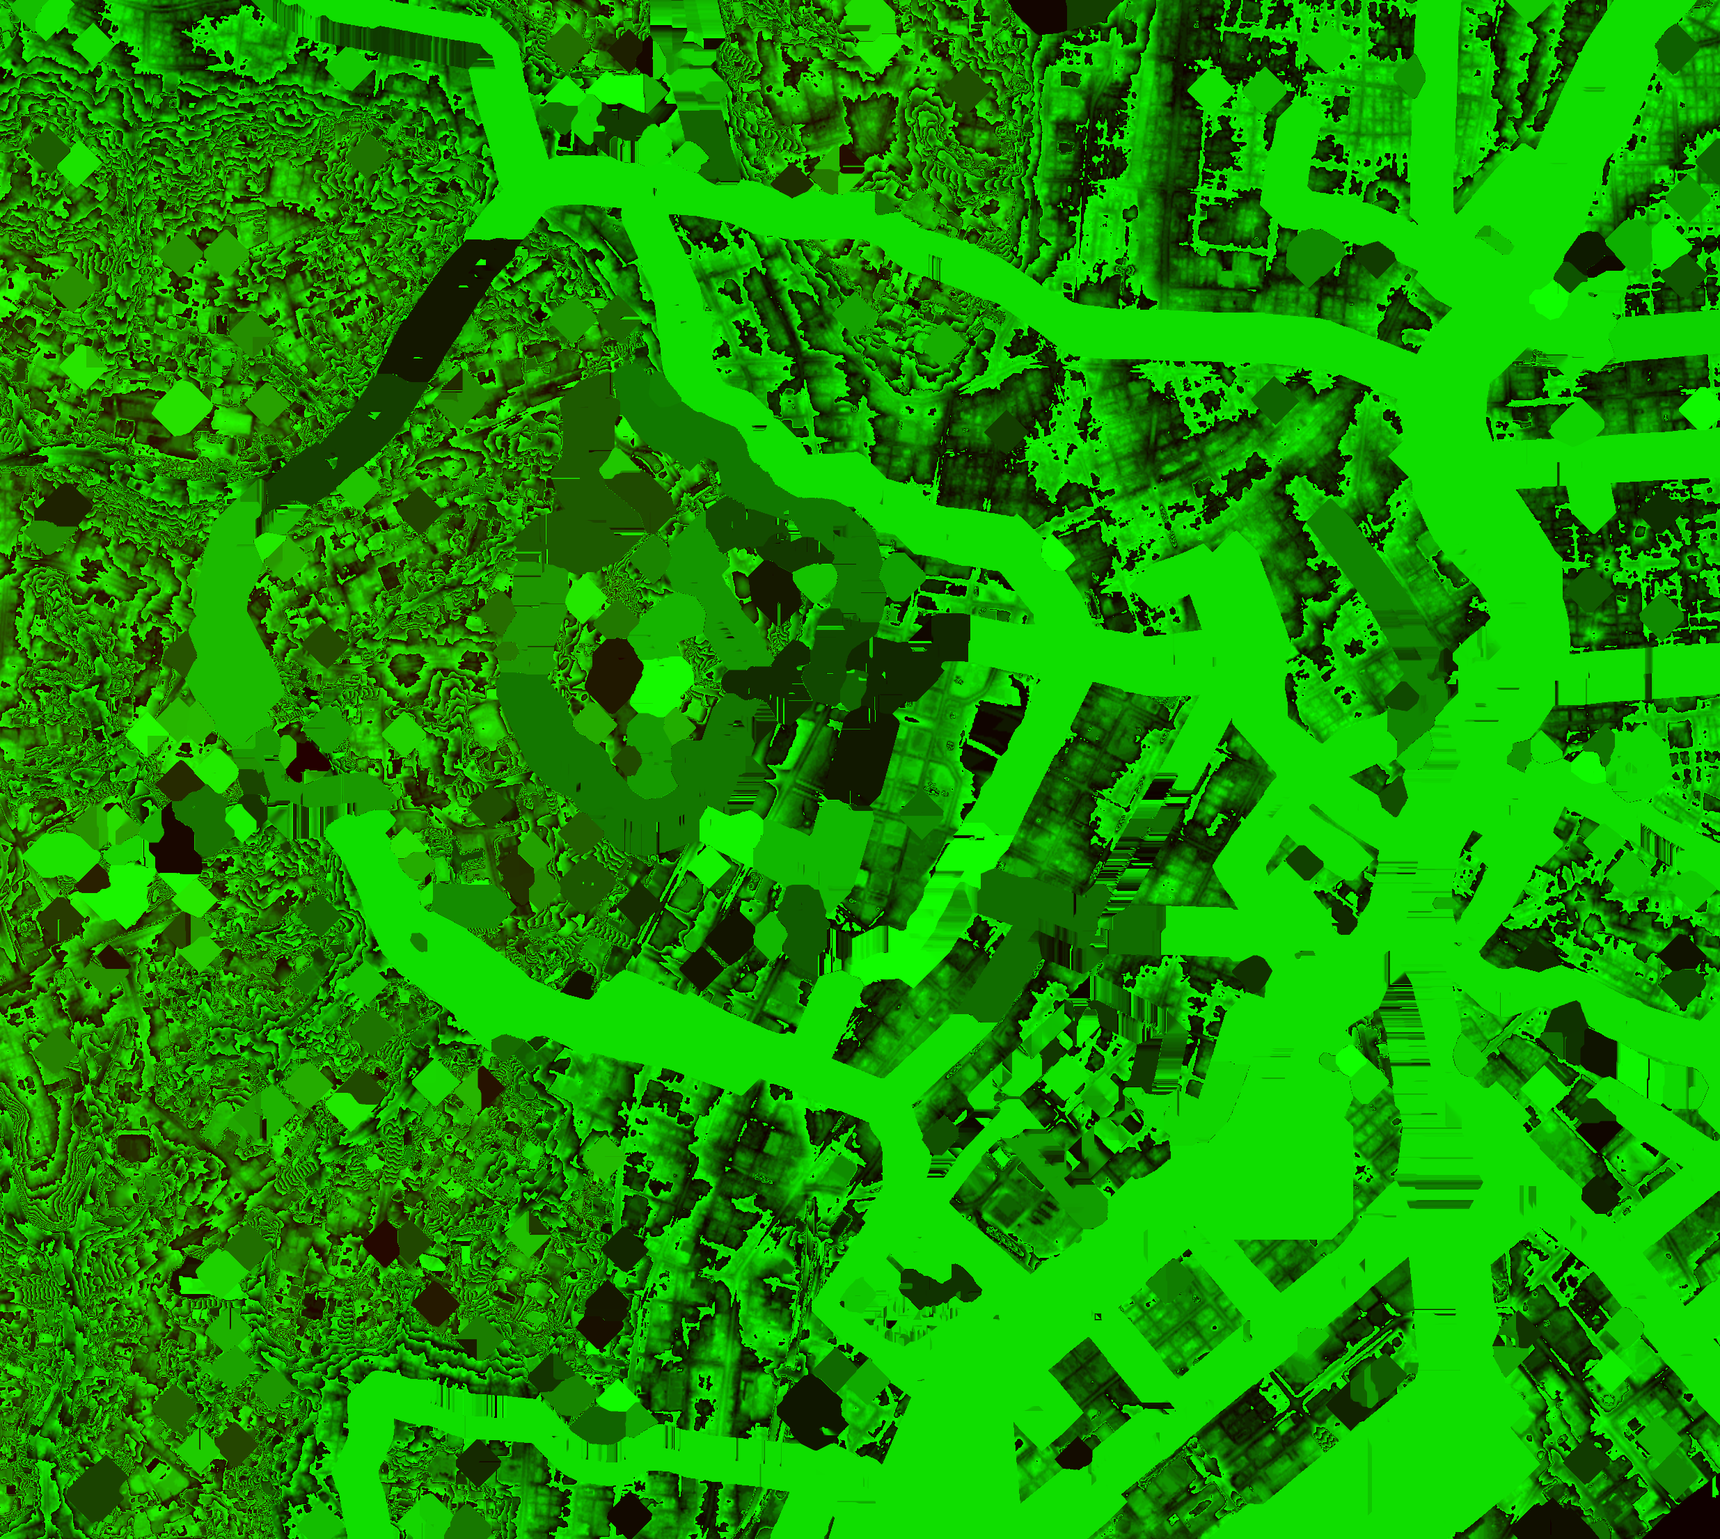
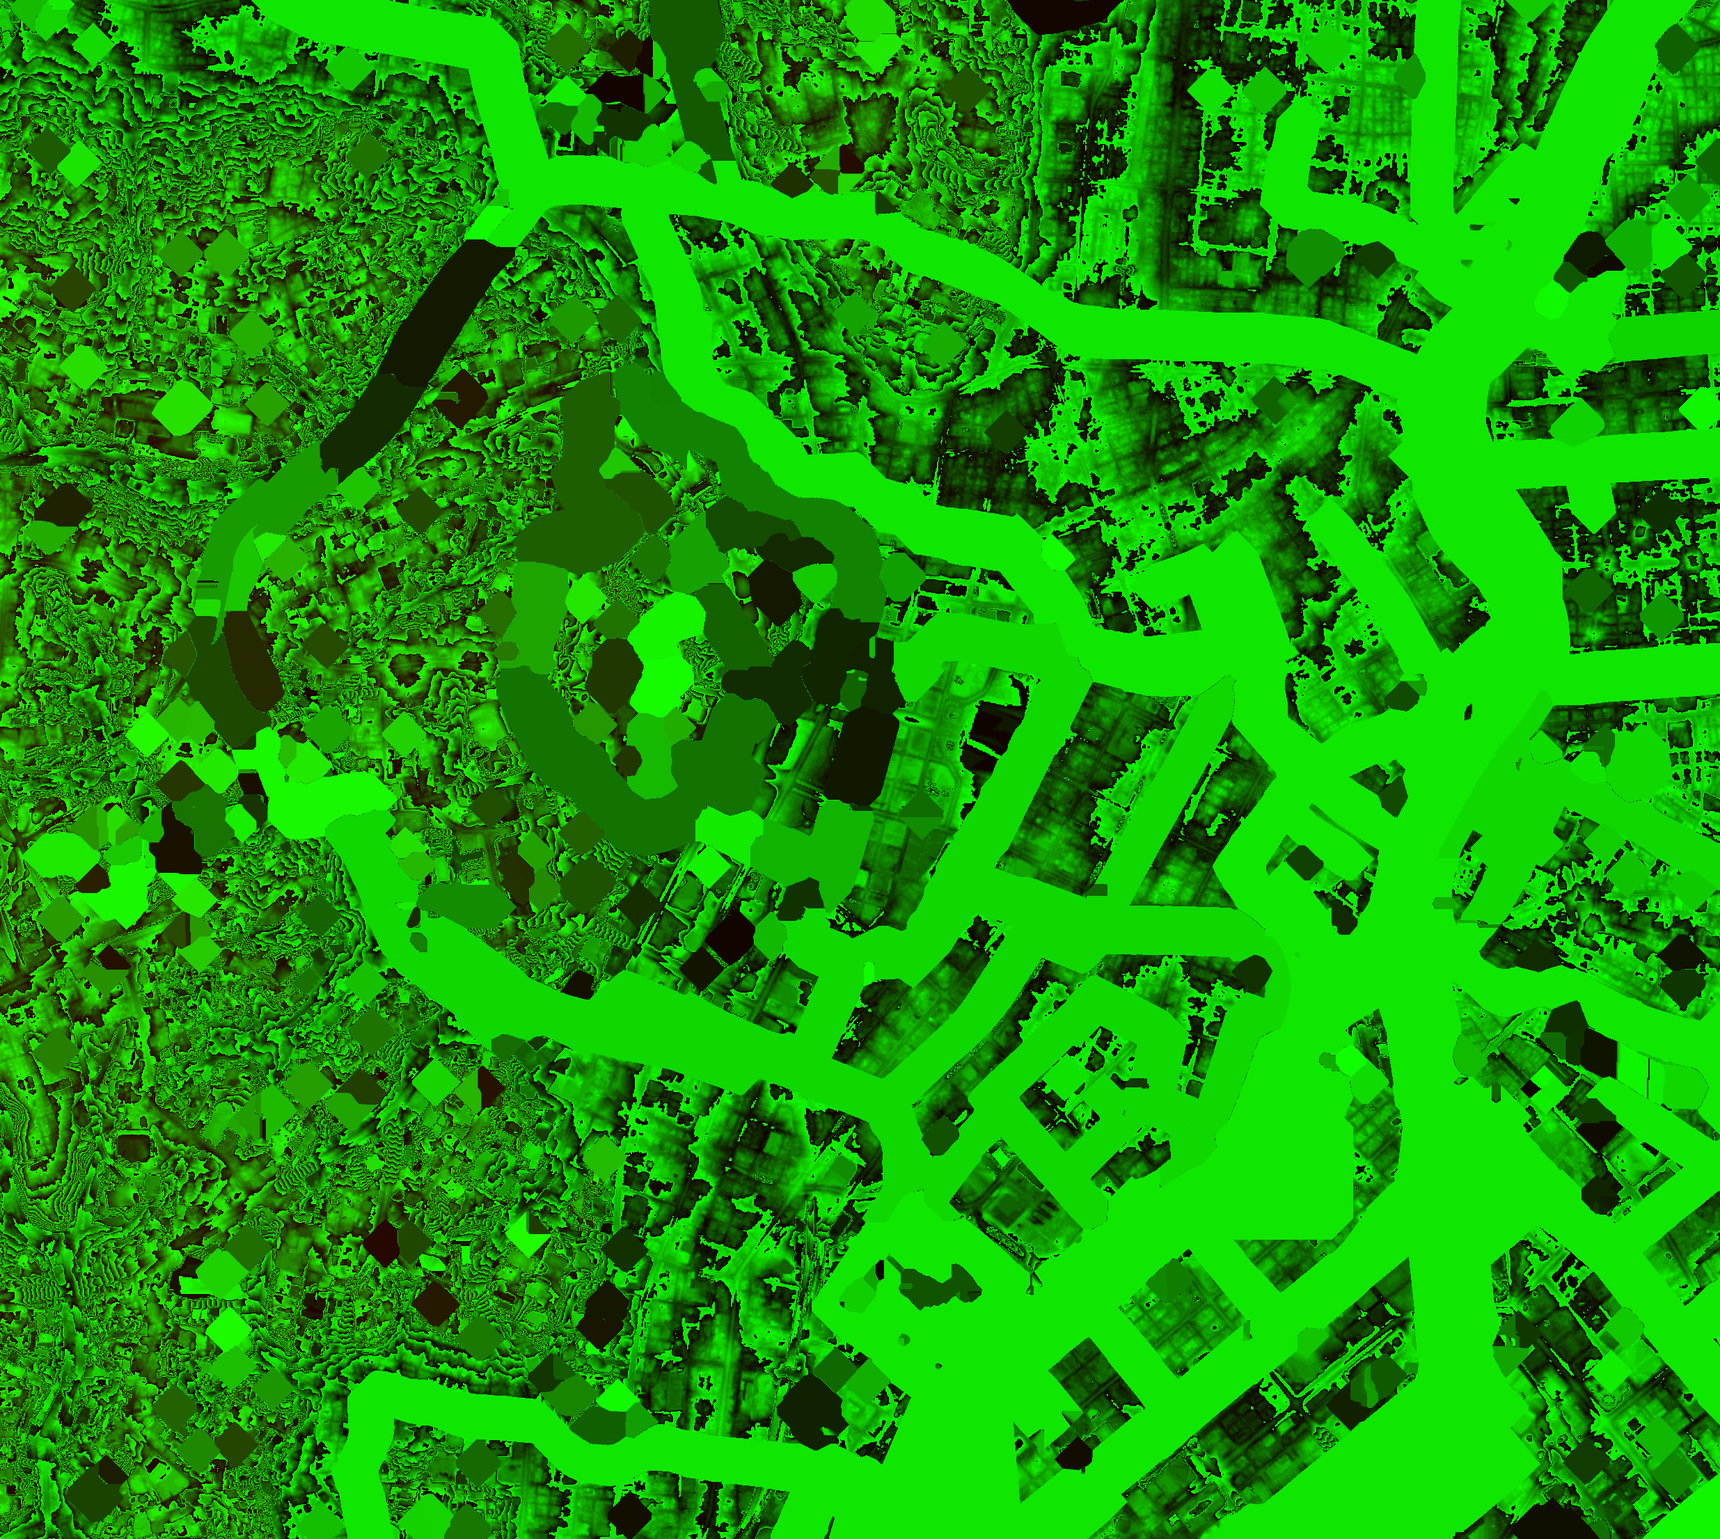
道・線路を地面のメッシュの高さに乗せて上に描く (途切れないように)、岸の線をなめらかに、戻した堀の水面を水平に (芝口など)、行き止まりの堀を隅田川へつなぐ、ワープの渦を岸から離れた所に置き、出口は水の続く向きへ、ミニマップのワープを赤い点と線に
Claude-Session: https://claude.ai/code/session_01UXdYbnpU5x9gYZ3cBC1Uhw

diff --git a/js/tokyo.js b/js/tokyo.js
@@ -9,7 +9,9 @@ import { SHUTOKO } from './shutoko-data.js';
 import { RAIL } from './rail-data.js';
 import { addTokyoTower, addDiet, addTechGym, addTokyoDome, addBudokan, addSkytree, addFuji, addDistant } from './tokyo/landmarks.js';
 import { addOchanomizu, addTokyoStation, addAkasaka, addRailways, addAkibaSigns, addNewOtani, addYotsuyaKudan, addGinzaNihonbashi, addUeno, addSensoji, addAsahi, addUenoAsakusa } from './tokyo/landmarks2.js';
-import { W, codeAt, isWater, LEVEL_H, terrainH, waterY, nearWaterGrid } from './world.js';
+import { W, codeAt, isWater, LEVEL_H, waterY, nearWaterGrid, groundMeshH } from './world.js';
+// 地面の上に置くもの (線路・道・橋のたもと・ビル) は、描いている地面のメッシュ (16m 格子) と同じ高さに合わせる (細かい標高だとメッシュに潜って途切れて見える)
+const terrainH = groundMeshH;
 import { mergeStatic } from './merge.js';
 
 // 窓のテクスチャ (ターザン大東京と同じ。8×8 の窓が 1 枚。lit = 夜に明かりがつく窓)
@@ -103,6 +105,8 @@ function buildRail(root, city, OX, OZ) {
         r.y[i] = sy / sw;
       }
     }
+    // ならしたあとも、陸の所では地面より下に潜らない (お茶の水の崖ぞいの中央・総武線が途切れて見えないように)
+    for (let i = 0; i < n; i++) if (!isWater(r.x[i] + OX, r.z[i] + OZ)) r.y[i] = Math.max(r.y[i], gy(r.x[i], r.z[i]) + r.h[i] + 0.2);
   }
   const brk = { p: [], n: [], uv: [] };
   // レンガ高架の区間 (緯度経度の範囲と路線)
@@ -210,7 +214,8 @@ function buildRail(root, city, OX, OZ) {
   g.setAttribute('normal', new THREE.Float32BufferAttribute(deck.n, 3));
   g.setAttribute('color', new THREE.Float32BufferAttribute(deck.c, 3));
   g.computeBoundingSphere();
-  const mesh = new THREE.Mesh(g, new THREE.MeshLambertMaterial({ vertexColors: true, side: THREE.DoubleSide }));
+  // 地形の上にかぶせて描く (地面と重なっても線路が上に見えるように)
+  const mesh = new THREE.Mesh(g, new THREE.MeshLambertMaterial({ vertexColors: true, side: THREE.DoubleSide, polygonOffset: true, polygonOffsetFactor: -2, polygonOffsetUnits: -4 }));
   mesh.frustumCulled = false; root.add(mesh);
   if (brk.p.length) {
     const c = document.createElement('canvas'); c.width = 256; c.height = 192;
@@ -490,7 +495,7 @@ export function buildTokyo(scene, renderer, bankSegs = []) {
       let a = i, b = i; while (a > 0 && !r.g[a] && r.h[a] < 3) a--; while (b < r.h.length - 1 && !r.g[b] && r.h[b] < 3) b++;
       r.h[i] = Math.max(r.h[a], r.h[b], 3);
     }
-    for (let i = 0; i < r.h.length; i++) r.h[i] = r.g[i] ? terrainH(r.x[i] + OX, r.z[i] + OZ) + 0.08 : r.h[i] + Ts(r.x[i], r.z[i]);
+    for (let i = 0; i < r.h.length; i++) r.h[i] = r.g[i] ? terrainH(r.x[i] + OX, r.z[i] + OZ) + 0.25 : r.h[i] + Ts(r.x[i], r.z[i]);
   }  // 高架の端が宙に浮いたまま切れている所: 両端とも浮いたつなぎは消し、片端だけの所は端の 60m を地面まで下ろす
   {
     const gh = (x, z) => (isWater(x + OX, z + OZ) ? waterY(x + OX, z + OZ) : terrainH(x + OX, z + OZ));
@@ -781,7 +786,7 @@ export function buildTokyo(scene, renderer, bankSegs = []) {
         const [x1, z1] = pts[q], [x2, z2] = pts[q + 1];
         if (isWater(x1, z1) || isWater(x2, z2) || isCastle(x1, z1) || !nearWaterGrid(x1, z1, 250)) continue;
         const L = Math.hypot(x2 - x1, z2 - z1) || 1, ux = (x2 - x1) / L, uz = (z2 - z1) / L, vx = -uz, vz = ux;
-        const h1 = terrainH(x1, z1) + 0.12, h2 = terrainH(x2, z2) + 0.12, hw = wdt / 2, iw = hw - walk;
+        const h1 = terrainH(x1, z1) + 0.25, h2 = terrainH(x2, z2) + 0.25, hw = wdt / 2, iw = hw - walk;
         const e1 = 0.3, ex = ux * e1, ez = uz * e1;
         const S = (x, z, t, h) => [x + vx * t, h, z + vz * t];
         quad(S(x1 - ex, z1 - ez, -iw, h1), S(x1 - ex, z1 - ez, iw, h1), S(x2 + ex, z2 + ez, iw, h2), S(x2 + ex, z2 + ez, -iw, h2), [0, 1, 0], ASP);
@@ -801,7 +806,7 @@ export function buildTokyo(scene, renderer, bankSegs = []) {
     g.setAttribute('normal', new THREE.Float32BufferAttribute(N, 3));
     g.setAttribute('color', new THREE.Float32BufferAttribute(C, 3));
     g.computeBoundingSphere();
-    const bm = new THREE.MeshLambertMaterial({ vertexColors: true, polygonOffset: true, polygonOffsetFactor: -1, polygonOffsetUnits: -2 });
+    const bm = new THREE.MeshLambertMaterial({ vertexColors: true, polygonOffset: true, polygonOffsetFactor: -2, polygonOffsetUnits: -4 });
     const mesh = new THREE.Mesh(g, bm); mesh.frustumCulled = false;
     scene.add(mesh);
     console.log('modern bridges', nb, 'road segs', nroad, 'tris', P.length / 9);

diff --git a/js/main.js b/js/main.js
@@ -1066,10 +1066,19 @@ function updateBoat(dt) {
     for (const [e, o] of [[w.a, w.b], [w.b, w.a]]) {
       const d = Math.hypot(o.x - e.x, o.z - e.z) || 1, ux = (o.x - e.x) / d, uz = (o.z - e.z) / d;
       // 渦に向かって進んでいるときだけワープ (出たあとすぐ戻ってしまわないように)
-      if (Math.hypot(P.x - e.x, P.z - e.z) < 7.5 && Math.cos(P.h) * ux + Math.sin(P.h) * uz > 0.2 && P.v > 1) {
-        P.x = o.x; P.z = o.z;
-        for (let s = 24; s > 0; s -= 2) if (isWater(o.x + ux * s, o.z + uz * s)) { P.x = o.x + ux * s; P.z = o.z + uz * s; break; }
-        P.h = Math.atan2(uz, ux);
+      // 渦に向かって進んでいるとき (または向こうの渦の方へ向いているとき) にワープ。出たあとは渦から離れる向きなので戻らない
+      const ex = e.x - P.x, ez = e.z - P.z, ed = Math.hypot(ex, ez) || 1;
+      if (ed < 7.5 && P.v > 1 && (Math.cos(P.h) * ex / ed + Math.sin(P.h) * ez / ed > 0.3 || ed < 2.5 || Math.cos(P.h) * ux + Math.sin(P.h) * uz > 0.2)) {
+        // 出口: 向こうの渦から、水が一番長く続く向き (来た向きに近い方を少し優先) に向けて出す
+        let bestA = Math.atan2(uz, ux), bestS = -1;
+        for (let k = 0; k < 24; k++) {
+          const a = k / 24 * Math.PI * 2, cx = Math.cos(a), cz = Math.sin(a);
+          let run = 0; while (run < 150 && isWater(o.x + cx * (run + 3), o.z + cz * (run + 3))) run += 3;
+          const sc = run * (1 + 0.3 * (cx * ux + cz * uz));
+          if (sc > bestS) { bestS = sc; bestA = a; }
+        }
+        P.h = bestA; P.x = o.x; P.z = o.z;
+        for (let s = 12; s > 0; s -= 2) if (isWater(o.x + Math.cos(bestA) * s, o.z + Math.sin(bestA) * s)) { P.x = o.x + Math.cos(bestA) * s; P.z = o.z + Math.sin(bestA) * s; break; }
         G.warpCd = 2; camInit = false; trail.length = 0;
         A.sfx('launch', 0.6, 1.3);
         $('flash').classList.remove('on'); void $('flash').offsetWidth; $('flash').classList.add('on');
@@ -1280,7 +1289,12 @@ function drawMinimap() {
   g.drawImage(mm.map, 0, 0); g.drawImage(mm.over, 0, 0);
   g.setTransform(1, 0, 0, 1, 0, 0);
   const X = (x, z) => { const [a, b] = xzToMap(x, z), u = (a - cx) * s, v = (b - cy) * s; return [u * rc - v * rs + c.width / 2, u * rs + v * rc + c.height / 2]; };
-  for (const w of warps) for (const e of [w.a, w.b]) { const [a, b] = X(e.x, e.z); g.fillStyle = '#0cc'; g.fillRect(a - 5, b - 5, 10, 10); }
+  // ワープ: 赤い点を 2 つ、赤い線で結ぶ (どこからどこへ飛ぶかがわかるように)
+  for (const w of warps) {
+    const [a1, b1] = X(w.a.x, w.a.z), [a2, b2] = X(w.b.x, w.b.z);
+    g.strokeStyle = '#e01818'; g.lineWidth = 3; g.setLineDash([6, 4]); g.beginPath(); g.moveTo(a1, b1); g.lineTo(a2, b2); g.stroke(); g.setLineDash([]);
+    for (const [a, b] of [[a1, b1], [a2, b2]]) { g.fillStyle = '#e01818'; g.strokeStyle = '#fff'; g.lineWidth = 2; g.beginPath(); g.arc(a, b, 6, 0, Math.PI * 2); g.fill(); g.stroke(); }
+  }
   for (const nj of G.ninjas) {
     if (['gone', 'bound', 'fall', 'sink'].includes(nj.state)) continue;
     const danger = nj.state === 'climb' || nj.state === 'emerge';

diff --git a/js/edo.js b/js/edo.js
@@ -442,9 +442,14 @@ export function buildWarps(scene) {
     const ends = [];
     for (const [x, z, ox, oz] of [[x1, z1, x2, z2], [x2, z2, x1, z1]]) {
       // 水の中へ少し入れる (岸から 5m)
-      let px = x, pz = z;
-      const d = Math.hypot(ox - x, oz - z) || 1;
-      for (let s = 0; s < 8; s++) { const nx = x - (ox - x) / d * s, nz = z - (oz - z) / d * s; if (isWater(nx, nz)) { px = nx; pz = nz; } }
+      // 渦は、岸 (石垣) から離れた水の上に置く: 端から 18m 以内で、まわりの岸から一番遠い所
+      let px = x, pz = z, bestC = -1;
+      const clear = (cx, cz) => { let m = 12; for (let a = 0; a < 8; a++) { const dx = Math.cos(a * Math.PI / 4), dz = Math.sin(a * Math.PI / 4); for (let r = 0; r < m; r += 1.5) if (!isWater(cx + dx * r, cz + dz * r)) { m = r; break; } } return m; };
+      for (let dz = -18; dz <= 18; dz += 3) for (let dx = -18; dx <= 18; dx += 3) {
+        const cx = x + dx, cz = z + dz; if (!isWater(cx, cz)) continue;
+        const c = clear(cx, cz) - Math.hypot(dx, dz) * 0.15;
+        if (c > bestC) { bestC = c; px = cx; pz = cz; }
+      }
       const g = new THREE.Group();
       g.position.set(px, waterY(px, pz) + 0.15, pz);
       const disc = new THREE.Mesh(new THREE.CircleGeometry(6, 32), new THREE.MeshBasicMaterial({ map: swirlTex, transparent: true, depthWrite: false, blending: THREE.AdditiveBlending }));

diff --git a/js/tokyo/city.js b/js/tokyo/city.js
@@ -654,7 +654,7 @@ export class City {
     g.setAttribute('position', new THREE.Float32BufferAttribute(deck.p, 3));
     g.setAttribute('normal', new THREE.Float32BufferAttribute(deck.n, 3));
     g.setAttribute('color', new THREE.Float32BufferAttribute(deck.c, 3));
-    const mesh = new THREE.Mesh(g, new THREE.MeshLambertMaterial({ vertexColors: true, side: THREE.DoubleSide }));
+    const mesh = new THREE.Mesh(g, new THREE.MeshLambertMaterial({ vertexColors: true, side: THREE.DoubleSide, polygonOffset: true, polygonOffsetFactor: -2, polygonOffsetUnits: -4 }));
     scene.add(mesh);
     // 橋脚
     const pg = new THREE.BoxGeometry(3, 1, 3);

diff --git a/js/world.js b/js/world.js
@@ -306,7 +306,7 @@ export function nearCastle(x, z) {
 // ---------- 石垣 (段の境目を marching squares で線にして、縦の面を立てる) ----------
 // 返り値: 城の塀の線 (櫓を置く所を選ぶのに使う)
 // 地面のメッシュ (16m 格子、三角形 a-c-b / b-c-d) の上の高さ
-function groundMeshH(x, z) {
+export function groundMeshH(x, z) {
   const G = 16, i = Math.floor(x / G), j = Math.floor(z / G), fx = x / G - i, fz = z / G - j;
   const h = (ii, jj) => terrainH(Math.min(W.sizeX, ii * G), Math.min(W.sizeZ, jj * G));
   const a = h(i, j), b = h(i + 1, j), c = h(i, j + 1), d = h(i + 1, j + 1);

diff --git a/tools/patch_map.py b/tools/patch_map.py
@@ -40,6 +40,39 @@ for la, lo in FILL:
     if len(seen) >= 20000: print('too big, skip', la, lo); continue
     for y, x in seen: A[y, x] = 5
     print('filled', la, lo, len(seen))
+# 隅田川のすぐそばで行き止まりになっている堀・運河 (40m 以内) は、隅田川につなぐ (江戸の堀は川へ抜けていた)
+def label_all(A):
+    lab = np.zeros(A.shape, np.int32); sizes = [0]; n = 0
+    for y0, x0 in zip(*np.nonzero(A == 0)):
+        if lab[y0, x0]: continue
+        n += 1; q = deque([(y0, x0)]); lab[y0, x0] = n; c = 0
+        while q:
+            y, x = q.popleft(); c += 1
+            for yy, xx in ((y + 1, x), (y - 1, x), (y, x + 1), (y, x - 1)):
+                if 0 <= yy < h and 0 <= xx < wdt and A[yy, xx] == 0 and not lab[yy, xx]: lab[yy, xx] = n; q.append((yy, xx))
+        sizes.append(c)
+    return lab, sizes
+labA, sizes = label_all(A)
+my, mx = cell(35.6880, 139.7905); main = labA[my, mx]
+xE = int((139.7740 - W0) * KX / RES)
+img = Image.fromarray(A); d = ImageDraw.Draw(img); nj = 0
+mainpts = np.argwhere(labA == main)
+mainpts = mainpts[::3]
+for k in range(1, len(sizes)):
+    if k == main or sizes[k] < 150: continue
+    pts = np.argwhere(labA == k)
+    if pts[:, 1].max() < xE: continue
+    pts = pts[::2]
+    best = None
+    for py, px in pts:
+        dd = (mainpts[:, 0] - py) ** 2 + (mainpts[:, 1] - px) ** 2
+        i = int(dd.argmin())
+        if best is None or dd[i] < best[0]: best = (dd[i], py, px, mainpts[i][0], mainpts[i][1])
+    if best and best[0] ** 0.5 * RES < 40:
+        _, ya, xa, yb, xb = best
+        d.line([(xa, ya), (xb, yb)], fill=0, width=max(3, int(10 / RES))); nj += 1
+        print('joined to 隅田川', round(N0 - ya * RES / KZ, 4), round(W0 + xa * RES / KX, 4), round(best[0] ** 0.5 * RES), 'm')
+A = np.array(img)
 # 丘の上を通ってしまった想像の堀 (溜池の水路が日枝神社の山王の丘を切っている所) を陸に戻す: 半径の中で岸の高さが高い水のマス
 HILL = [((35.6748, 139.7397), 110, 16)]  # (中心, 半径 m, この高さ m より高い岸)
 Tp = np.array(Image.open(os.path.join(D, 'terrain.png')).convert('RGB')).astype(float); TH = (Tp[..., 0] * 256 + Tp[..., 1]) / 200 - 20
@@ -49,6 +82,39 @@ for (la, lo), rad, thr in HILL:
         for x in range(x0 - r, x0 + r + 1):
             if (y - y0) ** 2 + (x - x0) ** 2 <= r * r and A[y, x] == 0 and TH[y, x] > thr: A[y, x] = 5; nfill += 1
     print('hill fill', la, lo, nfill)
+# 岸の線をなめらかに (3m のマスの段々・ギザギザをならす。まっすぐ・ゆるいカーブの岸に)
+def boxmean(m, r):
+    c = np.cumsum(np.cumsum(np.pad(m.astype(np.float64), ((1, 0), (1, 0))), 0), 1)
+    y0 = np.clip(np.arange(h) - r, 0, h); y1 = np.clip(np.arange(h) + r + 1, 0, h)
+    x0 = np.clip(np.arange(wdt) - r, 0, wdt); x1 = np.clip(np.arange(wdt) + r + 1, 0, wdt)
+    s_ = c[y1][:, x1] - c[y0][:, x1] - c[y1][:, x0] + c[y0][:, x0]
+    return s_ / ((y1 - y0)[:, None] * (x1 - x0)[None, :])
+wat = A == 0
+f = boxmean(boxmean(wat, 2), 2)
+# 細い水路 (幅 15m 未満) は消えないように、もとの水を残す
+thin = wat & (boxmean(wat, 3) < 0.45)
+neww = (f > 0.5) | thin
+# 新しく水にするマスで、別々の水面 (土橋・見附をはさんだお濠) をつないでしまうものは水にしない
+labW, _ = label_all(A)
+BIG = 1 << 30
+mx_ = np.zeros(A.shape, np.int64); mn_ = np.full(A.shape, BIG, np.int64)
+pl = np.pad(labW, 3)
+for dy in range(-3, 4):
+    for dx in range(-3, 4):
+        v = pl[3 + dy:3 + dy + h, 3 + dx:3 + dx + wdt].astype(np.int64)
+        mx_ = np.maximum(mx_, v); mn_ = np.minimum(mn_, np.where(v == 0, BIG, v))
+neww &= wat | (mx_ == mn_)
+# 陸になったマスは、まわりの陸のコード (多い方) にする
+landcode = A.copy()
+for _ in range(3):
+    m = landcode == 0
+    if not m.any(): break
+    p_ = np.pad(landcode, 1)
+    nb = np.stack([p_[:-2, 1:-1], p_[2:, 1:-1], p_[1:-1, :-2], p_[1:-1, 2:]])
+    landcode = np.where(m, nb.max(0), landcode)
+changed = (neww != wat).sum()
+A = np.where(neww, 0, np.where(wat, landcode, A)).astype(A.dtype)
+print('smoothed bank cells', int(changed))
 Image.fromarray(A).save(os.path.join(D, 'map.png'), optimize=True)
 # 水でないマスに端があるワープ、両端が同じ水面のワープは消す
 lab = np.zeros(A.shape, np.int32); n = 0
@@ -64,6 +130,14 @@ def comp(y, x):
     return n
 keep = []
 KEEP_SAME = [(35.6848, 139.7454)]  # 半蔵門 (細い水路でつながるが、舟では通りにくいので残す)
+def snapw(x, z):
+    y0, x0 = int(z / RES), int(x / RES)
+    for r in range(8):
+        for dy in range(-r, r + 1):
+            for dx in range(-r, r + 1):
+                if A[y0 + dy, x0 + dx] == 0: return ((x0 + dx) * RES + RES / 2, (y0 + dy) * RES + RES / 2)
+    return (x, z)
+w['warps'] = [[*snapw(k[0], k[1]), *snapw(k[2], k[3])] for k in w['warps']]
 for k in w['warps']:
     ca = comp(int(k[1] / RES), int(k[0] / RES)); cb = comp(int(k[3] / RES), int(k[2] / RES))
     la, lo = N0 - k[1] / KZ, W0 + k[0] / KX

diff --git a/tools/build_terrain.py b/tools/build_terrain.py
@@ -122,14 +122,19 @@ while q:
         # 地面 (標高) が水面より 8m 以上高い堀 (真田濠など台地の上の堀) には広げない: 別の高さの水面にする
         if 0 <= yy < h and 0 <= xx < w and water[yy, xx] and np.isnan(flat[yy, xx]) and not (SANADA[yy, xx] and Ev[yy, xx] > flat[a, b] + 8):
             flat[yy, xx] = flat[a, b]; q.append((yy, xx))
+# 戻した堀は、ひと続きの所ごとに 1 つの高さ (一番低いもの)。いくつかの今の水面から広げると、堀の中に斜めの段ができるので
+rest_all = water & ~natl & ~np.isnan(flat)
+labr0, nr0 = components(rest_all)
+for k in range(1, nr0 + 1):
+    m = labr0 == k
+    flat[m] = float(np.nanmin(flat[m]))
 # 今の水につながっていない戻した堀 (溜池など): かたまりごとに 1 つの高さ (まわりの道より 3.2m 低い所の低めの値)
 rest_m = water & np.isnan(flat)
 labr, nr = components(rest_m)
 for k in range(1, nr + 1):
     m = labr == k
     flat[m] = min(float(np.nanpercentile((bank - 3.2)[m], 20)), float(np.nanpercentile(Ev[m], 10)) - 1.0)
-WL = np.where(water, np.where(np.isnan(flat), WL, flat), np.nan)
-WL = np.where(water, np.minimum(WL, bank - 0.5), np.nan)
+WL = np.where(water, np.where(np.isnan(flat), np.minimum(WL, bank - 0.5), flat), np.nan)  # お濠ごとの水平な水面は岸で削らない
 print('flat water bodies', nl)
 WL = fill_nan(WL.astype(np.float32), 30)  # 岸の近く (陸) にも少しのばす
 WL = np.where(np.isnan(WL), bank - 3, WL)
